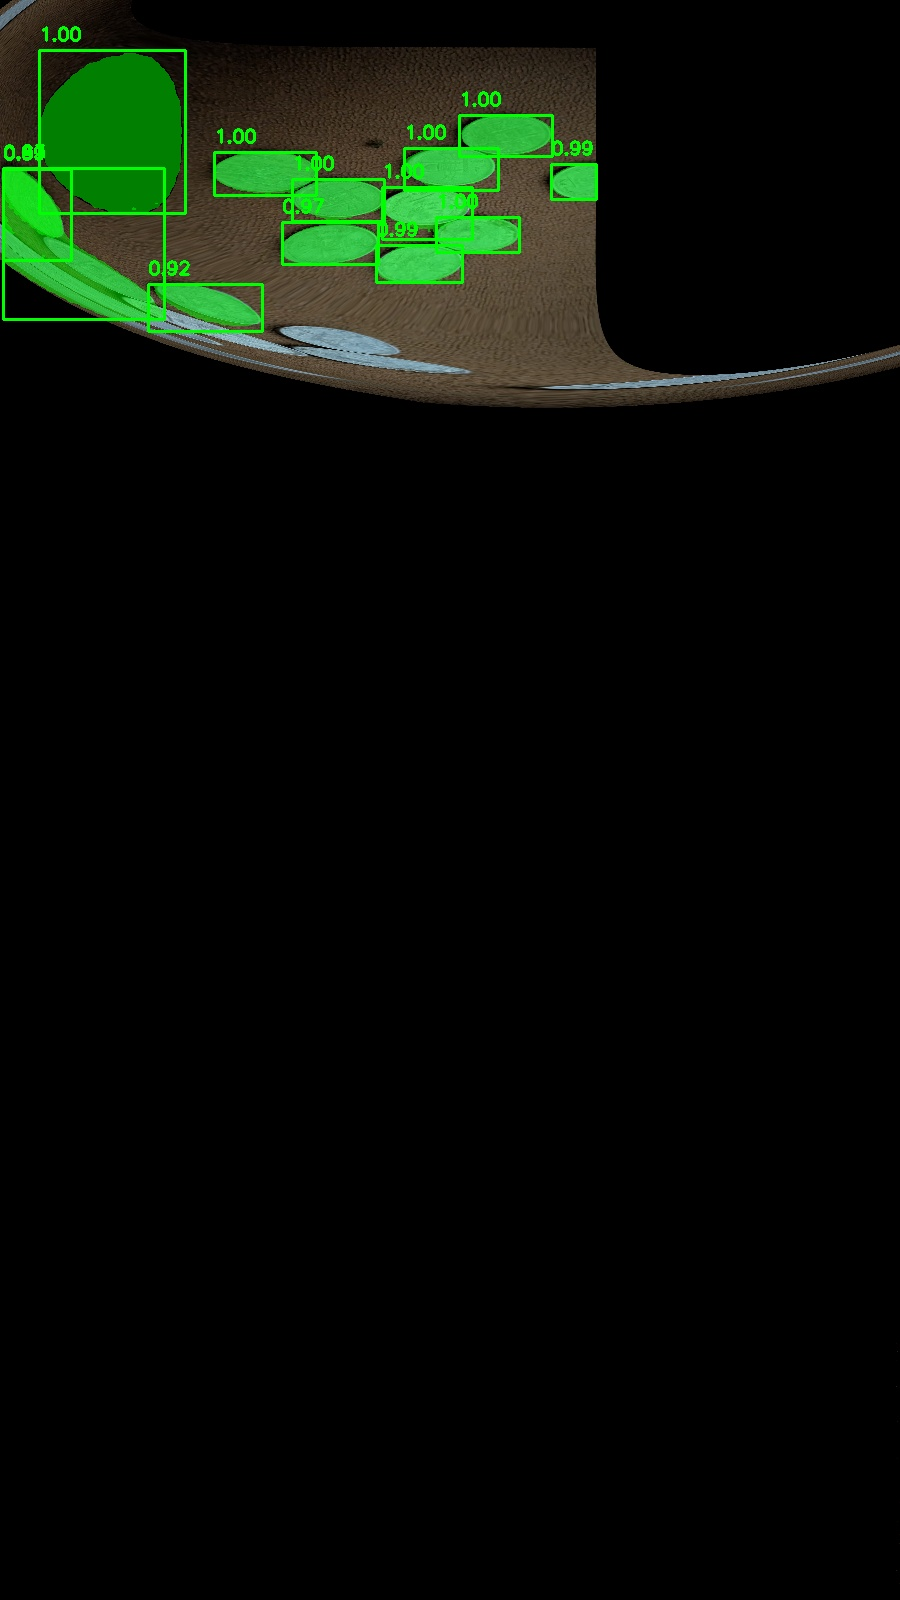
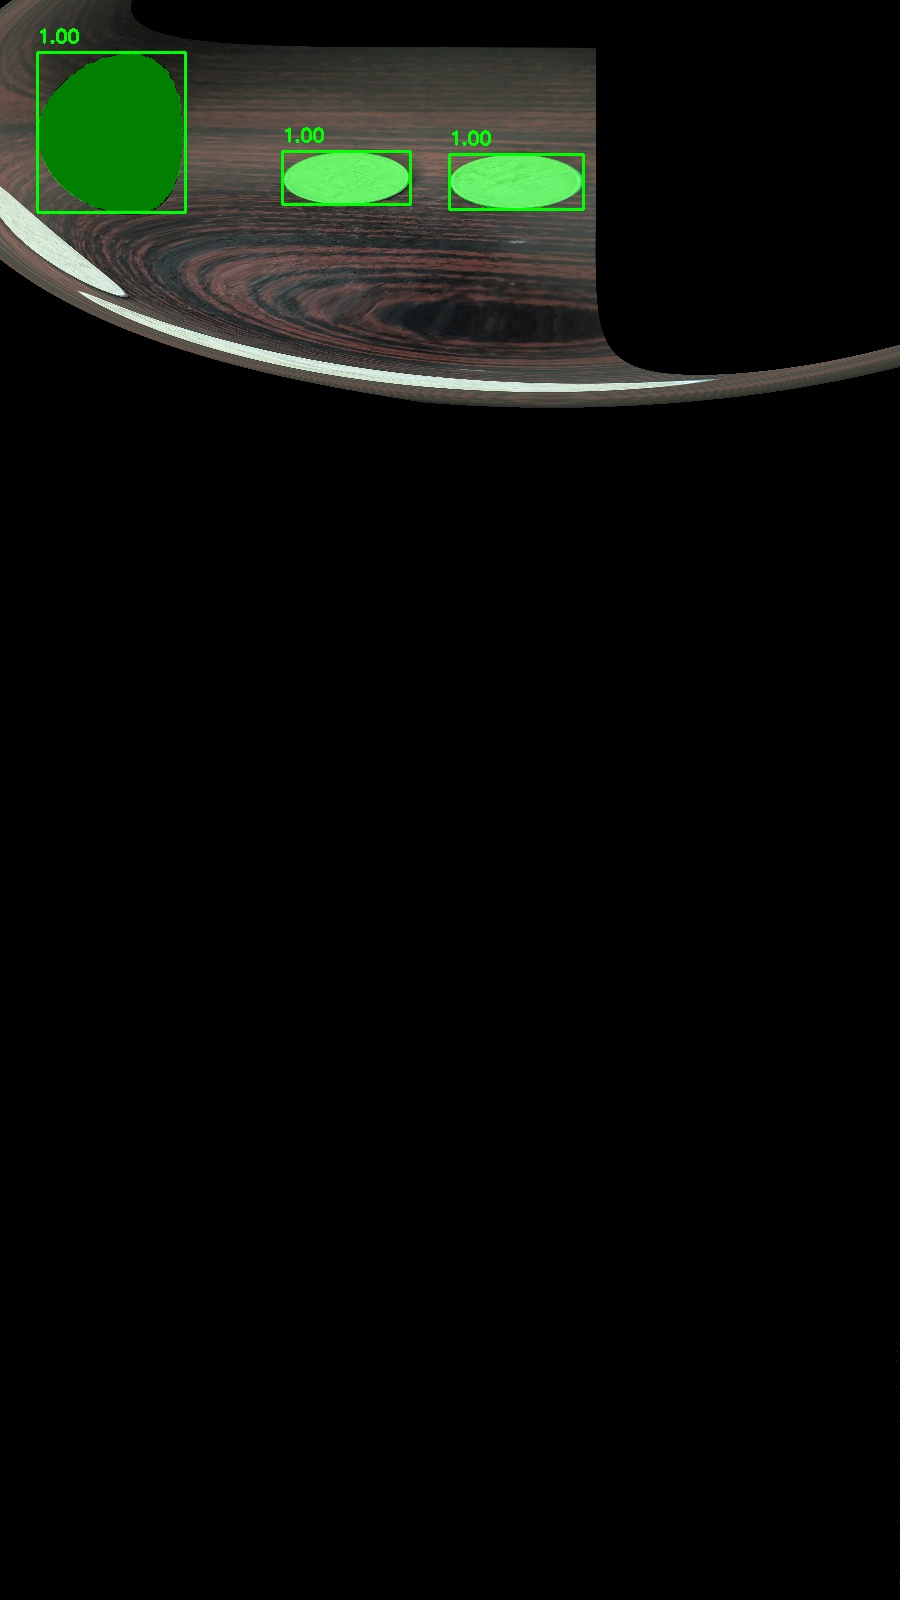
Add inference pipeline and prepare measurement phase structure implemnted pixel to mm in inference

Changed region(s): [[0.0, 0.0, 1.0, 0.25]]

diff --git a/Measurement/pixel_to_mm.py b/Measurement/pixel_to_mm.py
@@ -1,0 +1,58 @@
+import cv2
+import numpy as np
+
+
+REAL_DIAMETER_MM = 13.5  # 1 rupee coin approx
+
+
+def mask_to_bbox(mask):
+    """
+    Convert binary mask → bounding box in pixels
+    """
+    coords = np.column_stack(np.where(mask > 0))
+
+    y_min, x_min = coords.min(axis=0)
+    y_max, x_max = coords.max(axis=0)
+
+    width_px = x_max - x_min
+    height_px = y_max - y_min
+
+    return width_px, height_px
+
+
+def compute_mm(width_px, height_px, ref_diameter_px):
+    """
+    Convert pixels → mm using calibration ratio
+    """
+
+    mm_per_px = REAL_DIAMETER_MM / ref_diameter_px
+
+    width_mm = width_px * mm_per_px
+    height_mm = height_px * mm_per_px
+
+    return width_mm, height_mm, mm_per_px
+
+
+def estimate_object_size(mask):
+    """
+    Full pipeline for one coin mask
+    """
+
+    width_px, height_px = mask_to_bbox(mask)
+
+    # use max dimension as diameter reference
+    ref_px = max(width_px, height_px)
+
+    width_mm, height_mm, scale = compute_mm(
+        width_px,
+        height_px,
+        ref_px
+    )
+
+    return {
+        "width_px": width_px,
+        "height_px": height_px,
+        "width_mm": width_mm,
+        "height_mm": height_mm,
+        "mm_per_pixel": scale
+    }

diff --git a/Inference/infer.py b/Inference/infer.py
@@ -8,6 +8,12 @@ from torchvision.models.detection import maskrcnn_resnet50_fpn
 from torchvision.models.detection.faster_rcnn import FastRCNNPredictor
 from torchvision.models.detection.mask_rcnn import MaskRCNNPredictor
 
+from Measurement.pixel_to_mm import estimate_object_size
+
+import sys
+import os
+sys.path.append(os.path.abspath(os.path.join(os.path.dirname(__file__), "..")))
+
 
 
 # Model
@@ -144,6 +150,12 @@ def main(image_path):
 
         mask = mask[0] > 0.5
 
+        #Pixel -> MM Plugin
+        size = estimate_object_size(mask)
+        print("Measurnment: ")
+        print(size)
+
+
         result[mask] = (
             result[mask] * 0.5 +
             np.array([0, 255, 0]) * 0.5
@@ -189,3 +201,5 @@ if __name__ == "__main__":
     args = parser.parse_args()
 
     main(args.image)
+
+# python -m Inference.infer --image "D:\Cv_img_segmentation_pipeline\Dataset\test\WhatsApp Image 2026-06-03 at 3-47-55 PM_jpeg.rf.FdPbK9yTDBb9j7bbYCic.jpeg"

diff --git a/Model/train.py b/Model/train.py
@@ -184,3 +184,6 @@ if __name__ == "__main__":
     args = parser.parse_args()
 
     main(args)
+
+
+#python Model/train.py --data Dataset --epochs 10 --batch_size 2 --lr 0.005